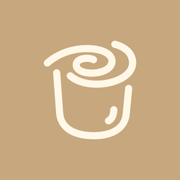
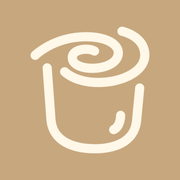
update project

Changed region(s): [[0.1667, 0.1389, 0.8333, 0.8611]]

diff --git a/lib/logo.js b/lib/logo.js
@@ -1,0 +1,10 @@
+// Garis logo Kopi Padu Rasa, dilacak dari foto "foto beranda/Logo Profil" (koordinat = piksel foto 1080 × 1080).
+// Dipakai untuk logo yang digambar garis demi garis (tirai Beranda, hero Kemitraan). Tebal garis: LOGO_STROKE.
+export const LOGO_VIEWBOX = '0 0 1080 1080';
+export const LOGO_STROKE = 43;
+export const LOGO_PATHS = [
+  'M280.9 379.6C284.4 376.7 294.6 367.9 301.7 362.5C308.8 357.1 316.3 352.1 323.8 347.2C331.4 342.4 339.1 337.8 347 333.6C354.9 329.4 363 325.5 371.2 321.9C379.4 318.4 387.7 315.1 396.2 312.1C404.6 309.2 413.2 306.5 421.8 304.2C430.5 301.9 439.2 299.8 448 298.1C456.8 296.4 465.7 295.1 474.6 294.1C483.5 293 492.4 292.3 501.4 291.8C510.3 291.4 519.3 291.1 528.2 291.3C537.2 291.5 546.1 292.1 555 293C563.9 294 572.8 295.2 581.6 296.9C590.4 298.7 599.2 300.7 607.6 303.5C616.1 306.4 624.7 309.5 632.4 313.9C640.1 318.2 648.3 323.2 654 329.7C659.8 336.2 664.7 344.5 666.9 352.8C669.1 361.2 669.1 371.1 667.2 379.5C665.3 387.9 660.8 396.6 655.2 403.2C649.6 409.7 641.4 414.6 633.6 418.9C625.9 423.2 617.2 426.3 608.7 428.9C600.2 431.6 591.3 433.4 582.5 434.7C573.7 436.1 564.7 436.7 555.7 436.9C546.8 437.1 537.8 436.8 528.9 435.9C520 434.9 511 433.7 502.5 431.1C493.9 428.6 484.6 425.9 477.7 420.8C470.9 415.7 463.9 408.2 461.4 400.4C458.9 392.6 459.3 381.2 462.8 374C466.4 366.8 475 360.9 482.7 357C490.4 353.2 500 351.9 508.8 351C517.6 350 526.8 350.3 535.6 351.3C544.5 352.3 557.5 356 561.9 357',
+  'M418.8 452.6C422.4 455.2 432.7 463.6 440.2 468.3C447.6 473.1 455.5 477.3 463.5 481C471.5 484.7 479.8 487.8 488.2 490.5C496.6 493.2 505.3 495.3 513.9 497.1C522.6 498.9 531.4 500.2 540.1 501.2C548.9 502.2 557.8 502.8 566.6 503.1C575.4 503.4 584.3 503.3 593.1 503C602 502.7 610.8 502.2 619.6 501.2C628.4 500.3 637.2 498.9 645.8 497.2C654.5 495.5 663.2 493.5 671.7 491.2C680.2 488.8 688.7 486.1 696.9 482.9C705.2 479.8 713.4 476.3 721.2 472.3C729.1 468.3 736.9 464 744.1 458.9C751.4 453.9 758.5 448.4 764.6 442.2C770.8 435.9 776.7 429 781.1 421.4C785.5 413.9 788.9 405.4 790.9 396.9C792.9 388.4 793.5 379.3 793.1 370.5C792.7 361.8 791.3 352.7 788.6 344.4C785.9 336.1 782 327.8 777.1 320.6C772.3 313.3 766 306.8 759.4 300.9C752.9 295 745.6 289.8 738 285.3C730.5 280.8 722.3 277.1 714.2 273.7C706.1 270.3 693.4 266.2 689.2 264.7',
+  'M338.7 439C339.1 443.5 340.6 457 341.3 466C342.1 475 342.7 484.1 343.3 493.1C344 502.1 344.6 511.1 345.2 520.1C345.9 529.2 346.6 538.2 347.3 547.2C348 556.2 348.7 565.2 349.3 574.3C350 583.3 350.6 592.3 351.3 601.3C351.9 610.4 352.5 619.4 353.2 628.4C353.9 637.4 354.4 646.4 355.3 655.5C356.2 664.5 357 673.5 358.4 682.4C359.8 691.3 361.2 700.4 363.8 709C366.5 717.6 369.8 726.2 374.2 734C378.6 741.8 384.1 749.2 390.1 755.8C396.2 762.5 403.3 768.4 410.6 773.6C417.9 778.9 425.8 783.5 433.8 787.5C441.9 791.6 450.4 794.9 458.9 797.9C467.4 800.8 476.2 803.1 485 805.1C493.8 807.1 502.8 808.5 511.8 809.7C520.7 811 529.7 811.9 538.8 812.5C547.8 813 556.8 813.1 565.9 813C574.9 812.9 584 812.6 593 811.9C602 811.1 611 809.9 619.9 808.4C628.8 806.8 637.7 805 646.4 802.5C655.1 800.1 663.7 797.3 672 793.7C680.3 790.2 688.5 786.1 696.1 781.3C703.7 776.4 711 770.9 717.5 764.7C724.1 758.5 730.2 751.6 735.2 744.1C740.1 736.7 744.1 728.3 747.3 719.9C750.5 711.5 752.4 702.6 754.2 693.8C756.1 684.9 757.1 675.9 758.2 666.9C759.3 657.9 760 648.9 760.9 639.9C761.7 630.9 762.6 621.9 763.4 612.9C764.3 603.9 765.2 594.9 766.1 585.9C766.9 576.9 767.5 567.8 768.6 558.9C769.7 549.9 772 536.5 772.7 532.1',
+  'M683 661.1C682 665.2 679.8 677.7 677.2 685.6C674.6 693.5 672 702 667.3 708.6C662.6 715.2 651.9 722.6 648.8 725.4',
+];

diff --git a/app/globals.css b/app/globals.css
@@ -515,7 +515,7 @@ dialog.modal::backdrop {
 }
 .veil__mark { width: clamp(128px, 16vw, 184px); height: auto; aspect-ratio: 1; }
 .veil__mark path {
-  fill: none; stroke: var(--brown); stroke-width: 40; stroke-linecap: round; stroke-linejoin: round;
+  fill: none; stroke: var(--brown); stroke-linecap: round; stroke-linejoin: round;
   stroke-dasharray: 1 2; stroke-dashoffset: 1.02;
   animation: veil-draw .75s var(--ease-nav) forwards;
 }
@@ -809,7 +809,7 @@ a.app-pill:hover { background: var(--c); border-color: var(--c); color: #fff; }
 .mitra-art__disc { position: absolute; inset: 9%; border-radius: 50%; background: var(--logo-bg); box-shadow: var(--shadow); }
 .mitra-art__ring { position: absolute; inset: calc(9% - 14px); border-radius: 50%; border: 2px dashed var(--sand-2); }
 .mitra-art__mark { position: absolute; inset: 9%; overflow: visible; }
-.mitra-art__mark path { fill: none; stroke: var(--logo-ink); stroke-width: 40; stroke-linecap: round; stroke-linejoin: round; }
+.mitra-art__mark path { fill: none; stroke: var(--logo-ink); stroke-linecap: round; stroke-linejoin: round; }
 .motion-ok .mitra-art__mark path { stroke-dasharray: 1; stroke-dashoffset: 1; }
 .motion-ok .mitra-art__badge { visibility: hidden; }
 .mitra-art__badge {
@@ -1051,14 +1051,6 @@ a.app-pill:hover { background: var(--c); border-color: var(--c); color: #fff; }
   .job__art { grid-area: 1 / 1; width: 40%; }
 }
 
-.back-link {
-  display: flex; width: fit-content; align-items: center; gap: 8px; margin-bottom: 10px; padding-block: 4px;
-  font-weight: 800; font-size: 14.5px; color: var(--brown); text-decoration: none;
-}
-.back-link span { transition: transform .2s var(--ease-out); }
-.back-link:hover { color: var(--caramel-dark); }
-.back-link:hover span { transform: translateX(-3px); }
-
 /* Job page: one panel that fits the screen under the header, no scrolling needed. */
 .page-hero.job-page {
   display: grid; align-content: center;
@@ -1072,7 +1064,6 @@ a.app-pill:hover { background: var(--c); border-color: var(--c); color: #fff; }
   grid-template-areas: "head req side" "art req side" "cta req side";
 }
 .job-page__head { grid-area: head; }
-.job-page__head .kicker { font-size: clamp(18px, 1.7vw, 22px); }
 .job-page__title { font-size: clamp(40px, 4.6vw, 62px); text-transform: uppercase; }
 .job-page .job__places { margin-top: 10px; font-size: clamp(15px, 1.4vw, 18px); }
 .job-page__art { grid-area: art; position: relative; min-height: 130px; }
@@ -1118,8 +1109,6 @@ a.app-pill:hover { background: var(--c); border-color: var(--c); color: #fff; }
   .job-page__grid { grid-template-columns: minmax(0, 1fr); grid-template-areas: "head" "req" "side" "cta"; gap: 8px; }
   .job-page__art { display: none; }
   .job-page__head { display: grid; grid-template-columns: auto 1fr; align-items: center; gap: 2px 12px; }
-  .job-page__head .back-link { margin: 0; font-size: 13.5px; }
-  .job-page__head .kicker { justify-self: end; margin: 0; font-size: 15px; }
   .job-page__title { font-size: 36px; }
   .job-page .job__places { margin-top: 0; font-size: 13.5px; letter-spacing: .1em; }
   .job-block { padding: 12px 14px; }

diff --git a/components/home/Hero.js b/components/home/Hero.js
@@ -3,6 +3,7 @@ import Link from 'next/link';
 import { useRef } from 'react';
 import { STORE_COUNT } from '@/lib/data';
 import { gsap, motionOK, useGSAP } from '@/lib/gsap';
+import { LOGO_PATHS, LOGO_STROKE, LOGO_VIEWBOX } from '@/lib/logo';
 import { T, useLang } from '../lang';
 
 const ARROW = 'M8 3C4 14 10 24 21 30m0 0-9-1m9 1-2-9';
@@ -38,21 +39,14 @@ const STICKERS = [
 ];
 const CLOUD_SECONDS = [70, 95, 120];
 
-export const LOGO_VIEWBOX = '-200.5 -195.5 990 990';
-const MARK_PATHS = [
-  'M60 160C150 92 300 58 400 104c52 28 44 96-18 110-70 18-150-2-156-44-6-40 40-58 80-52 40 7 46 42 16 52-22 7-44-2-42-15',
-  'M185 235c77 57 235 61 305-5 50-50 40-138-35-180',
-  'M112 212c0 88 8 188 28 268 20 92 342 96 365 0 15-70 20-130 25-180',
-  'M445 425c-5 35-20 55-40 67',
-];
 const VEIL_MAX_MS = 2200;
 let stopTimer = 0;
 
 export function HeroVeil() {
   return (
     <div className="veil" aria-hidden="true">
-      <svg className="veil__mark" viewBox={LOGO_VIEWBOX}>
-        {MARK_PATHS.map((d) => <path key={d} pathLength="1" d={d} />)}
+      <svg className="veil__mark" viewBox={LOGO_VIEWBOX} strokeWidth={LOGO_STROKE}>
+        {LOGO_PATHS.map((d) => <path key={d} pathLength="1" d={d} />)}
       </svg>
     </div>
   );
@@ -113,10 +107,6 @@ export default function Hero() {
           duration: 0.75, ease: 'power2.out', onComplete: () => p.remove(),
         });
       }
-      gsap.fromTo(hero, { x: 0, y: 0 }, {
-        keyframes: [{ x: 1.5, y: 1, duration: 0.07 }, { x: -1.5, y: -1, duration: 0.07 }, { x: 0, y: 0, duration: 0.1 }],
-        ease: 'none', overwrite: 'auto', clearProps: 'transform',
-      });
     });
 
     const float = () => {

diff --git a/components/kemitraan/KemitraanPage.js b/components/kemitraan/KemitraanPage.js
@@ -2,6 +2,7 @@
 import { useRef } from 'react';
 import { page, part } from '@/lib/data';
 import { gsap, motionOK, ScrollTrigger, useGSAP } from '@/lib/gsap';
+import { LOGO_PATHS, LOGO_STROKE, LOGO_VIEWBOX } from '@/lib/logo';
 import { IconWa } from '../icons';
 import { useDocTitle, useLang } from '../lang';
 import { useReveal } from '../reveal';
@@ -48,11 +49,8 @@ function MitraArt() {
     <div className="mitra-art" aria-hidden="true" ref={ref}>
       <div className="mitra-art__ring" />
       <div className="mitra-art__disc" />
-      <svg className="mitra-art__mark" viewBox="-200.5 -195.5 990 990">
-        <path pathLength="1" d="M60 160C150 92 300 58 400 104c52 28 44 96-18 110-70 18-150-2-156-44-6-40 40-58 80-52 40 7 46 42 16 52-22 7-44-2-42-15" />
-        <path pathLength="1" d="M185 235c77 57 235 61 305-5 50-50 40-138-35-180" />
-        <path pathLength="1" d="M112 212c0 88 8 188 28 268 20 92 342 96 365 0 15-70 20-130 25-180" />
-        <path pathLength="1" d="M445 425c-5 35-20 55-40 67" />
+      <svg className="mitra-art__mark" viewBox={LOGO_VIEWBOX} strokeWidth={LOGO_STROKE}>
+        {LOGO_PATHS.map((d) => <path key={d} pathLength="1" d={d} />)}
       </svg>
       {badge1 && <span className="mitra-art__badge mitra-art__badge--1">{t(badge1)}</span>}
       {badge2 && <span className="mitra-art__badge mitra-art__badge--2">{t(badge2)}</span>}

diff --git a/components/karir/LowonganPage.js b/components/karir/LowonganPage.js
@@ -1,5 +1,4 @@
 'use client';
-import Link from 'next/link';
 import { useRef } from 'react';
 import { JOB, JOB_PART } from '@/lib/data';
 import { IconCheck } from '../icons';
@@ -34,8 +33,6 @@ export default function LowonganPage() {
       <section className="page-hero job-page" aria-labelledby="jobTitle">
         <div className="container job-page__grid">
           <div className="job-page__head">
-            <Link className="back-link" href="/karir/"><span aria-hidden="true">←</span>{t(JOB_PART.tombol_kembali)}</Link>
-            <p className="kicker">{t(JOB_PART.label_kecil_detail)}</p>
             <h1 className="page-title job-page__title" id="jobTitle">{t(job.posisi)}</h1>
             <JobPlaces list={job.lokasi} />
           </div>

diff --git a/app/layout.js b/app/layout.js
@@ -23,7 +23,7 @@ export const metadata = {
   ...(SITE_URL ? { metadataBase: new URL(SITE_URL) } : {}),
   ...metaOf('Beranda'),
   icons: {
-    icon: [{ url: '/img/favicon.svg', type: 'image/svg+xml' }, { url: '/img/favicon-64.png', type: 'image/png', sizes: '64x64' }],
+    icon: [{ url: '/img/favicon.svg', type: 'image/svg+xml' }, { url: '/img/favicon-32.png', type: 'image/png', sizes: '32x32' }, { url: '/img/favicon-64.png', type: 'image/png', sizes: '64x64' }],
     apple: '/img/apple-touch-icon.png',
   },
 };

diff --git a/README.md b/README.md
@@ -41,6 +41,7 @@ components/
 data/informasi-website.json   semua teks, harga, menu, daftar toko
 lib/data.js              pembaca JSON + daftar foto produk (SLUG) & foto toko (STORE_PHOTO)
 lib/gsap.js              GSAP + plugin yang dipakai
+lib/logo.js              garis logo (dilacak dari foto Logo Profil) untuk logo yang digores
 lib/meta.js              pratinjau link (og:image) & alamat situs
 public/img/              semua gambar (alamatnya /img/...)
 public/.htaccess, public/_headers   pengaturan keamanan & cache untuk hosting (lihat bagian Hosting)
@@ -52,7 +53,7 @@ scripts/                 skrip pendukung build & preview
 
 Edit `data/informasi-website.json`, lalu simpan. Di mode `npm run dev`, perubahan langsung tampil. Untuk situs yang diunggah, jalankan `npm run build` lagi.
 
-**Dine in:** toko yang bisa dine in diberi `"dine_in": true` di daftar `toko` (saat ini BTP dan Pallangga). Kartunya menampilkan label **Dine in** dan **Takeaway**. Toko tanpa tanda itu hanya menampilkan **Takeaway**.
+**Dine in:** toko yang bisa dine in diberi `"dine_in": true` di daftar `toko` (saat ini BTP, Pallangga, dan Limbung). Kartunya menampilkan label **Dine in** dan **Takeaway**. Toko tanpa tanda itu hanya menampilkan **Takeaway**.
 
 ## Mengubah header atau footer
 
@@ -71,7 +72,7 @@ Pilihan bahasa ID/EN di header sedang dimatikan. Untuk menampilkannya lagi, ubah
 
 | Bagian | File | Yang terjadi |
 |---|---|---|
-| Hero Beranda | `components/home/Hero.js` | Beranda dibuka langsung pertama kali per sesi: tirai krem dengan logo tergores, memudar begitu font & foto siap (paling lama ±2,2 detik). Kunjungan pertama per sesi: tulisan hero naik masuk berurutan, latar zoom keluar, stiker "ditempel" satu per satu dengan debu & guncangan kecil, label & badge muncul, panah tergambar. Setelah itu stiker "bernapas", awan bergeser, uap kopi naik, parallax mengikuti kursor. |
+| Hero Beranda | `components/home/Hero.js` | Beranda dibuka langsung pertama kali per sesi: tirai krem dengan logo tergores, memudar begitu font & foto siap (paling lama ±2,2 detik). Kunjungan pertama per sesi: tulisan hero naik masuk berurutan, latar zoom keluar, stiker "ditempel" satu per satu dengan efek debu, label & badge muncul, panah tergambar. Setelah itu stiker "bernapas", awan bergeser, uap kopi naik, parallax mengikuti kursor. |
 | Slider promo | `components/home/PromoSlider.js` | Geser halus antar-slide (ScrollTo), ganti otomatis tiap 5 detik |
 | Muncul saat di-scroll | `components/reveal.js` | Elemen bertanda `data-reveal` naik & memudar masuk, bergantian; angka 30 berjalan dari 0 |
 | Menu ponsel | `components/ui.js` | Panel memudar, baris menu naik satu per satu (pop-up pesan online muncul & hilang langsung, tanpa animasi) |
@@ -95,6 +96,19 @@ Pengunjung yang mematikan animasi di pengaturan HP atau komputernya langsung mel
   - Toko yang belum punya foto memakai logo (`public/img/toko/logo-600.webp` & `-900.webp`, dari `foto beranda/Logo Profil`) sebagai pengganti. Logo ini tidak bisa diklik. Matikan lewat `LOGO_FOR_NO_PHOTO` di `components/lokasi/LokasiPage.js`.
   - Sementara ini toko yang punya foto ditaruh paling atas (`PHOTO_FIRST` di `lib/data.js`). Ubah ke `false` untuk kembali ke urutan JSON.
 
+## Logo
+
+Semua logo berasal dari `foto beranda/Logo Profil.jpg.jpeg`:
+
+| File | Dipakai di | Isi |
+|---|---|---|
+| `public/img/favicon.svg` (+ cadangan `favicon-32.png`, `favicon-64.png`) | ikon tab browser | garis logo tanpa latar: cokelat, krem saat browser bertema gelap |
+| `public/img/apple-touch-icon.png` | ikon saat situs disimpan ke layar iPhone | foto, persegi |
+| `public/img/logo.webp`, `public/img/toko/logo-600.webp` & `-900.webp` | ujung jalan di Karir, kartu toko tanpa foto | foto utuh |
+| `lib/logo.js` | logo yang digores garis demi garis (tirai Beranda, hero Kemitraan) | garis logo yang dilacak dari foto |
+| `public/img/logo-mark-light.svg` (krem) | header, footer, menu ponsel; logo samar di Seliter Padu, kartu & ajakan Kemitraan | garis yang sama dengan `lib/logo.js`, tanpa latar |
+| `public/img/logo-mark.svg` (cokelat) | logo samar di latar judul halaman | garis yang sama, tanpa latar |
+
 ## Hosting
 
 Isi `out/` sudah membawa dua file pengaturan. Hosting hanya membaca yang sesuai jenisnya, jadi keduanya boleh ikut diunggah:
@@ -114,7 +128,6 @@ Hasil build juga berisi `sitemap.xml` dan `robots.txt` (dibuat dari `app/sitemap
 
 - **Alamat situs:** `SITE_URL` di `lib/meta.js` berisi `https://kopipadurasa.com`. Dipakai untuk gambar pratinjau link WhatsApp/Facebook (`public/img/og-image.jpg`), `sitemap.xml`, dan `robots.txt`. Bila domain berubah, ganti di sana lalu `npm run build` lagi.
 - **Toko Takalar:** link petunjuk arahnya masih pencarian Google Maps, belum link lokasi toko (di `data/informasi-website.json`).
-- **Logo:** `public/img/logo-mark.svg` masih gambar ulang. Ganti dengan file SVG logo resmi (nama file sama).
 - **Peta Google Maps** di halaman Lokasi belum dipasang (di JSON juga masih kosong).
 - **Deskripsi Google** untuk Beranda, Menu, dan Lokasi masih draf. Ubah di `page.js` masing-masing.
 
